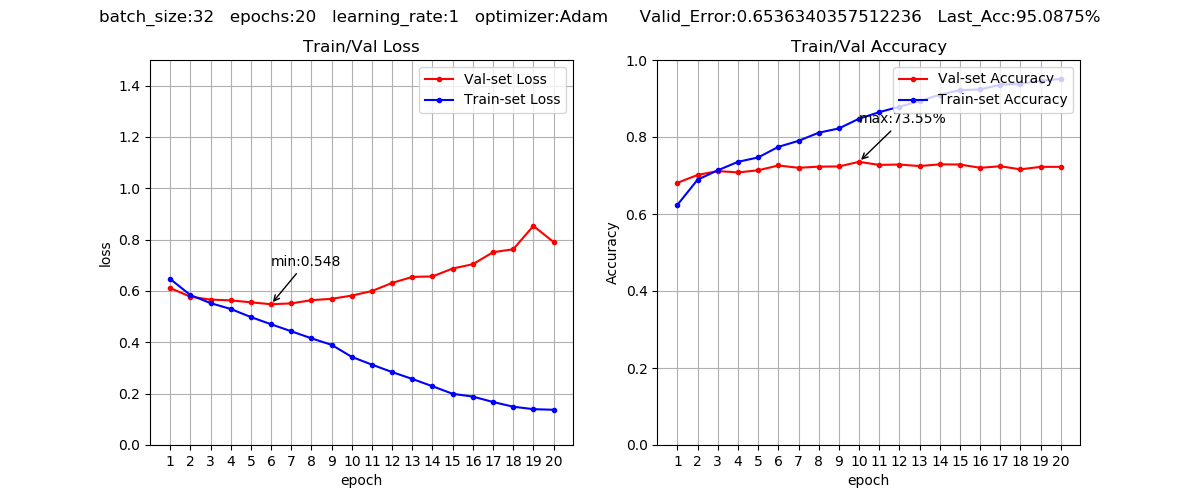
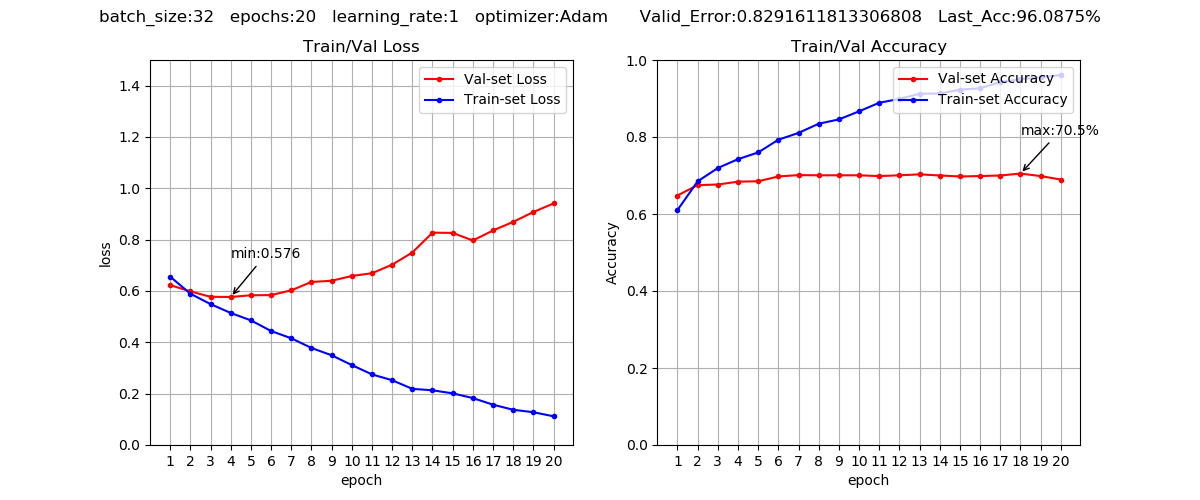
Last Accuracy: 0.960875 Valid error: 0.8291611813306808 Total params: 492,382

diff --git a/main.py b/main.py
@@ -141,10 +141,10 @@ class ModelMgr():
         # from sklearn.model_selection import StratifiedKFold
         # kfold = StratifiedKFold(n_splits=10, shuffle=True, random_state=seed)
         model = Sequential()
-        nDropout = 0.25
-        model.add(Conv2D(32, (2, 2), padding='same', input_shape=self.x_train.shape[1:], activation='relu'))
-        model.add(Conv2D(64, (2, 2), padding='same', input_shape=self.x_train.shape[1:], activation='relu'))
-        model.add(MaxPooling2D(pool_size=(3, 3), strides=(3, 3)))
+        nDropout = 0.1
+        model.add(Conv2D(4, (2, 2), padding='same', input_shape=self.x_train.shape[1:], activation='relu'))
+        model.add(Conv2D(8, (2, 2), padding='same', input_shape=self.x_train.shape[1:], activation='relu'))
+        model.add(MaxPooling2D(pool_size=(2, 2), strides=(1, 1)))
         # model.add(Conv2D(128, (2, 2), padding='same', input_shape=self.x_train.shape[1:], activation='relu'))
         # model.add(Conv2D(256, (2, 2), padding='same', input_shape=self.x_train.shape[1:], activation='relu'))
         # model.add(MaxPooling2D(pool_size=(6, 6), strides=(6, 6)))
@@ -154,8 +154,8 @@ class ModelMgr():
         model.add(Dropout(nDropout))
 
         model.add(Flatten())
-
-        model.add(Dense(128, activation='relu', kernel_initializer='glorot_uniform'))
+        nDropout = 0.15
+        model.add(Dense(64, activation='relu', kernel_initializer='glorot_uniform'))
         # model.add(Dense(128, activation='relu', kernel_initializer='glorot_uniform'))
         # model.add(Dense(24, activation='relu', kernel_initializer='glorot_uniform'))
         # model.add(Dense(128, activation='relu', kernel_initializer='glorot_uniform'))
